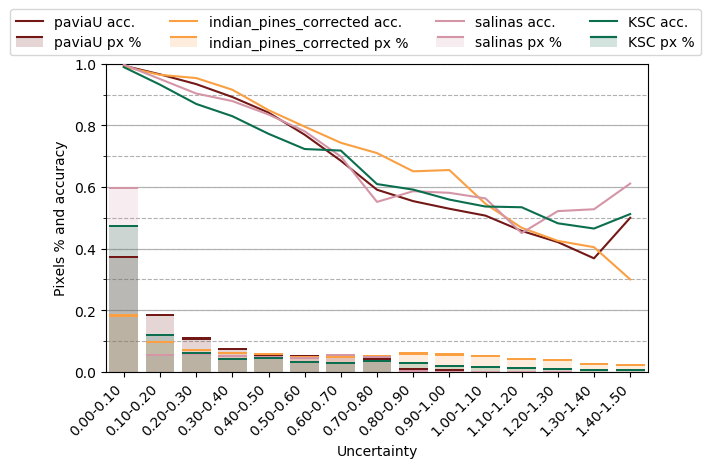
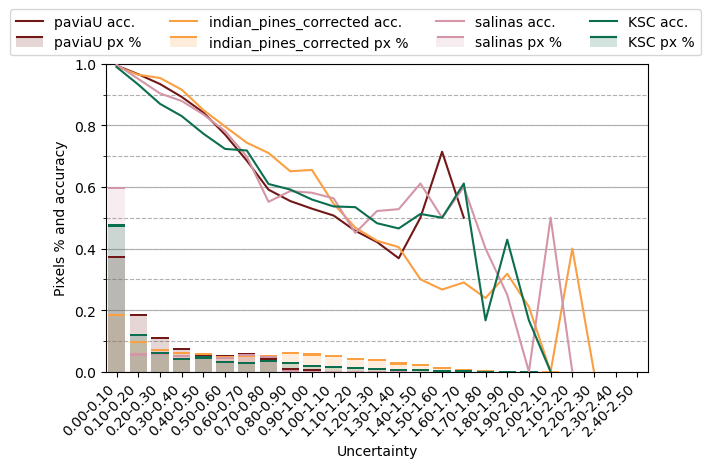
H_limit=2.5 y num_groups=25

Changed region(s): [[0.093, 0.1197, 0.9296, 0.9274], [0.8676, 0.5684, 0.8986, 0.5983], [0.8676, 0.3889, 0.8986, 0.4188]]

diff --git a/FPGA_accelerator_for_GBDT/high_performance_processor_python_code_and_data/perform_analysis.py b/FPGA_accelerator_for_GBDT/high_performance_processor_python_code_and_data/perform_analysis.py
@@ -129,7 +129,7 @@ def reliability_diagram(predictions, y_test, num_groups=10):
     
     return result
 
-def accuracy_vs_uncertainty(predictions, y_test, H_limit=1.5, num_groups=15):
+def accuracy_vs_uncertainty(predictions, y_test, H_limit=2.5, num_groups=25):
     """Generates the `accuracy vs uncertainty` data
     
     Parameters
@@ -138,9 +138,9 @@ def accuracy_vs_uncertainty(predictions, y_test, H_limit=1.5, num_groups=15):
         Array with the bayesian predictions.
     y_test : ndarray
         Testing data set labels.
-    H_limit : float, optional (default: 1.5)
+    H_limit : float, optional (default: 2.5)
         The max value of the range of uncertainty.
-    num_groups : int, optional (default: 15)
+    num_groups : int, optional (default: 25)
         Number of groups in which the prediction will be divided
         according to their uncertainty.
     
@@ -321,7 +321,7 @@ def plot_reliability_diagram(output_dir, data, w=7, h=4, colours=COLOURS, num_gr
     print("\nSaved {file_name} in {output_dir}".format(file_name=file_name, output_dir=output_dir))
 
 def plot_accuracy_vs_uncertainty(output_dir, acc_data, px_data, w=7, h=4, colours=COLOURS,
-                                 H_limit=1.5, num_groups=15):
+                                 H_limit=2.5, num_groups=25):
     """Generates and saves the `accuracy vs uncertainty` plot
     
     It saves the plot in `output_dir` in pdf format with the name
@@ -346,9 +346,9 @@ def plot_accuracy_vs_uncertainty(output_dir, acc_data, px_data, w=7, h=4, colour
     colours : dict, optional (default: COLOURS)
         It contains the HEX value of the RGB colour of each dataset.
         The key must be the dataset name abbreviation.
-    H_limit : float, optional (default: 1.5)
+    H_limit : float, optional (default: 2.5)
         The max value of the range of uncertainty for the plot.
-    num_groups : int, optional (default: 15)
+    num_groups : int, optional (default: 25)
         Number of groups to divide xticks labels.
     """
     
